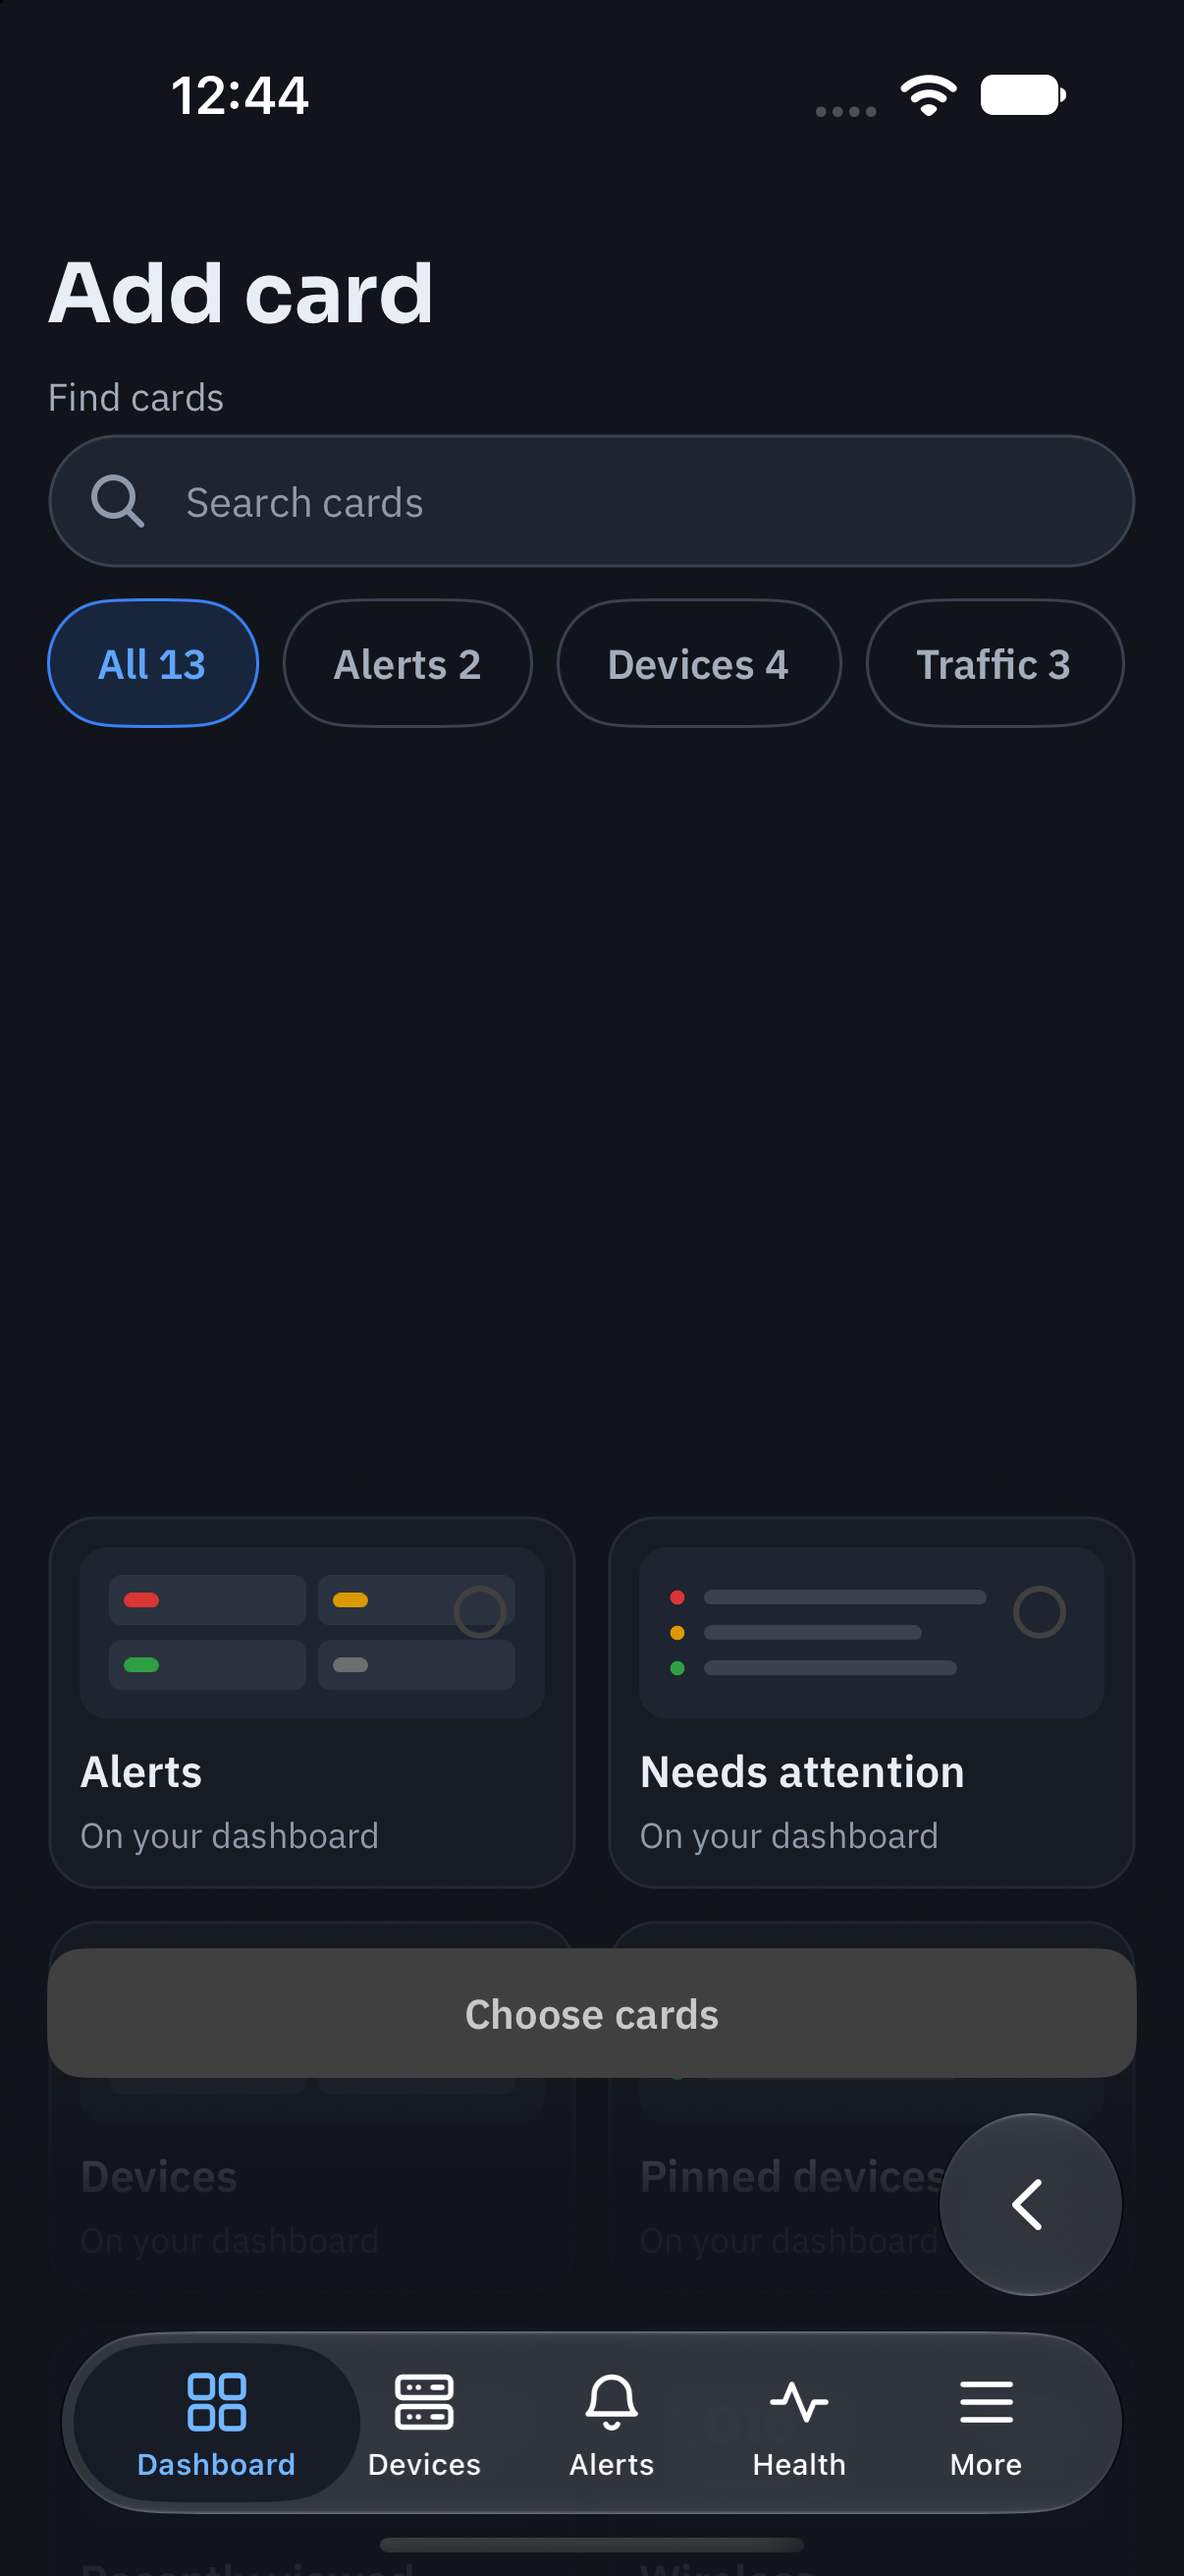
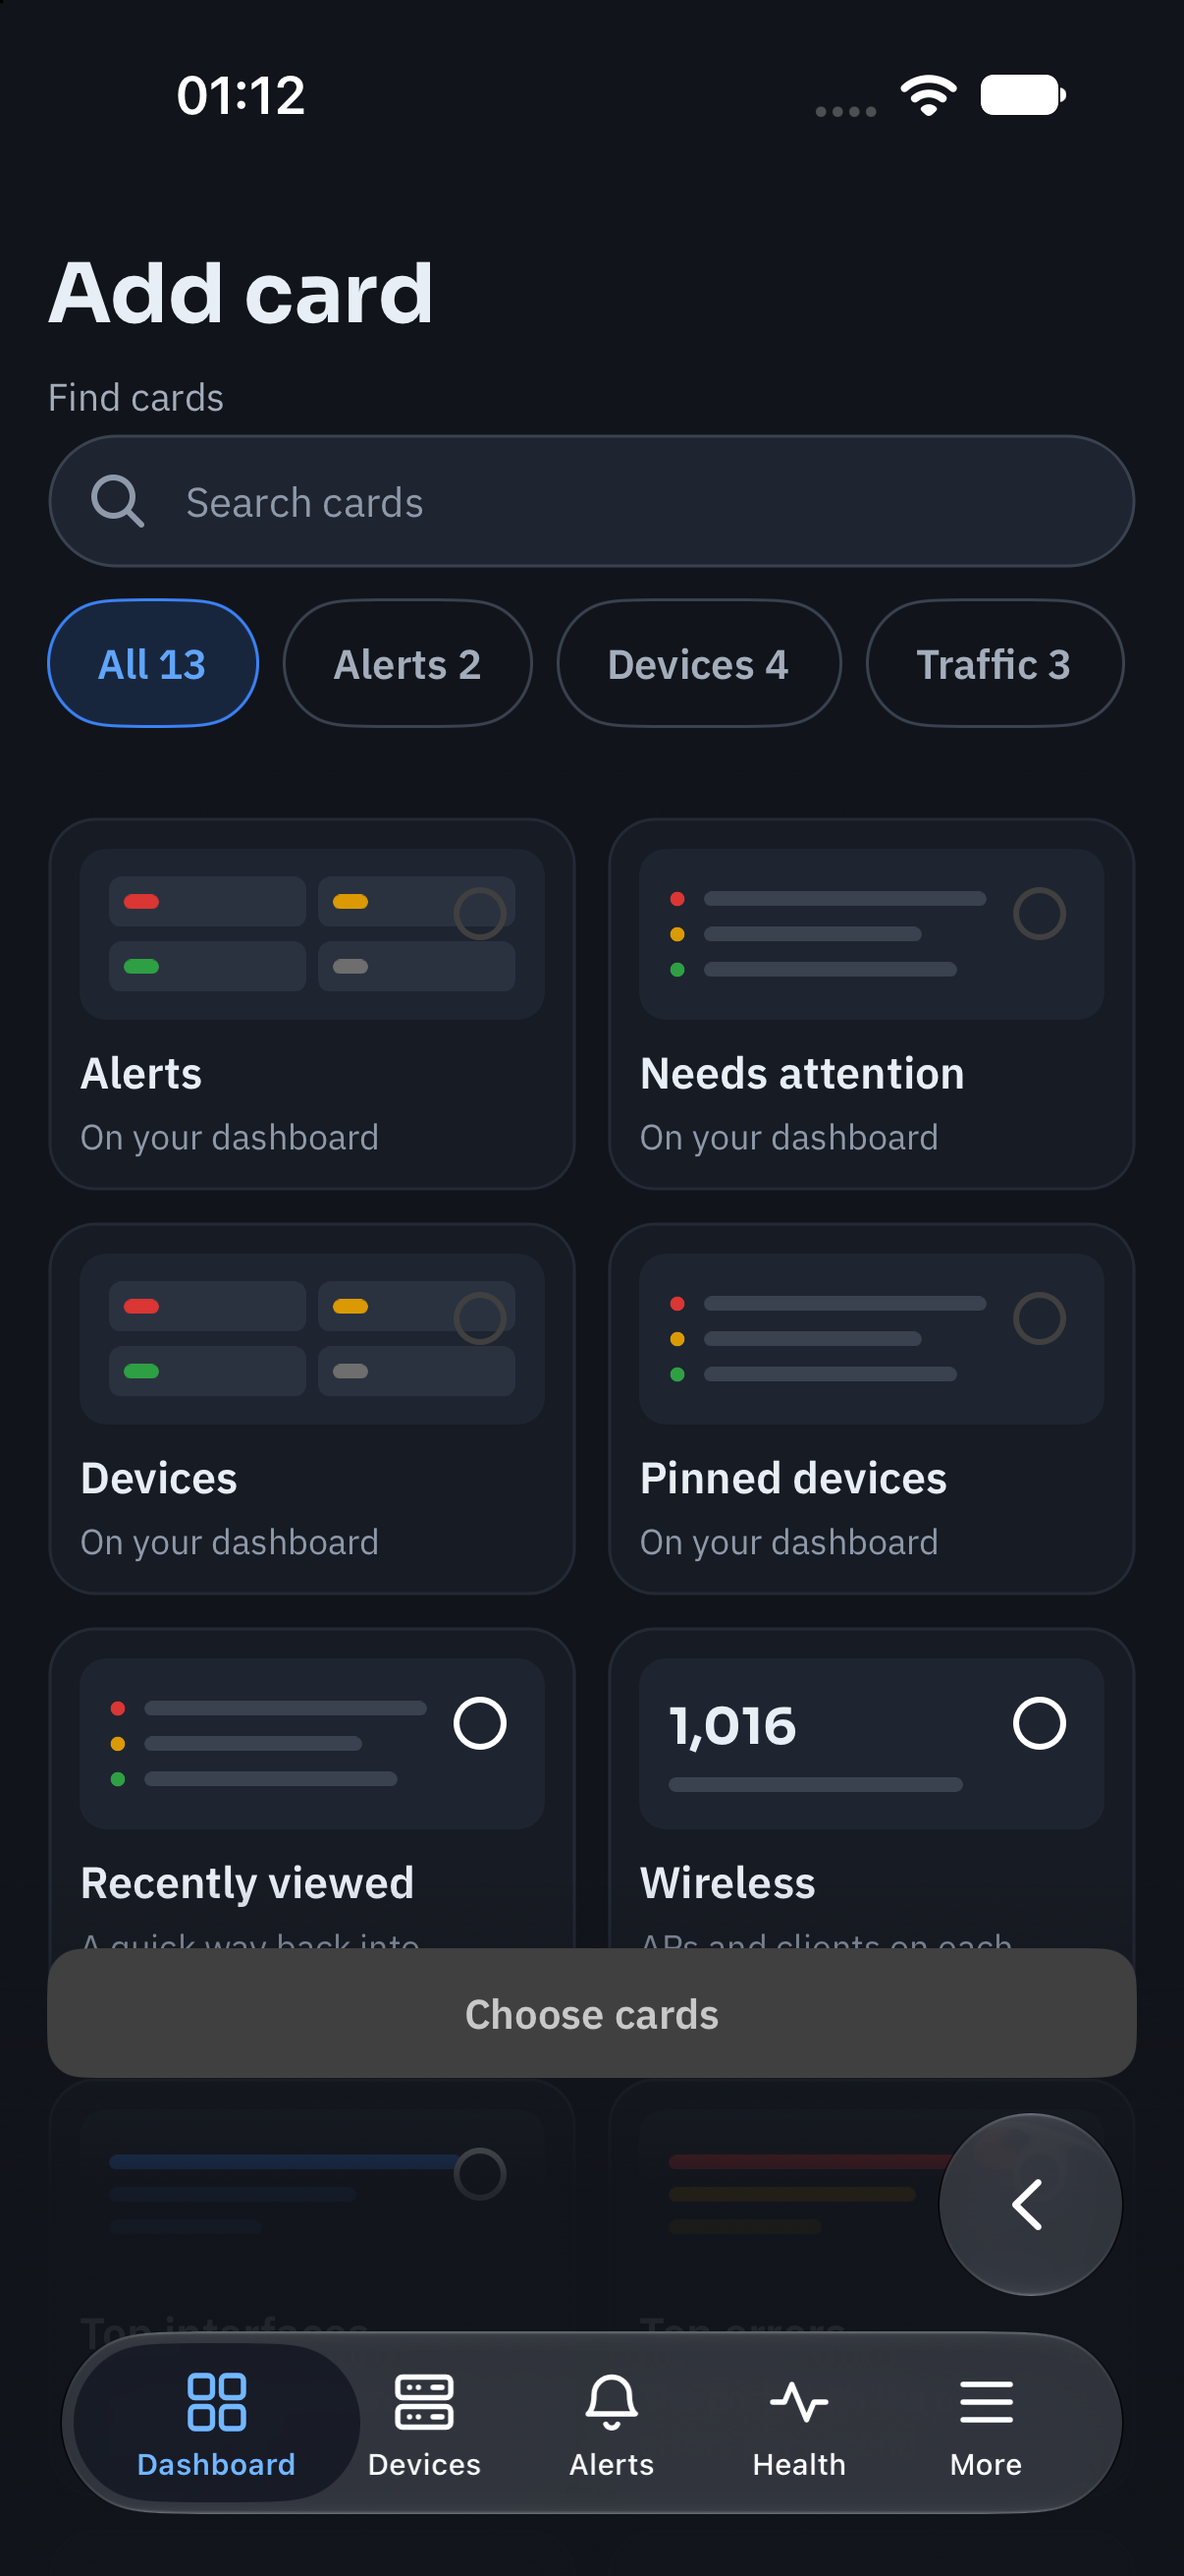
fix(dashboard): show the card catalogue directly below its filters (#730)
Closes #712

## Root cause

The ~268pt blank band below the category chips on `AddCardPage` came
from layout, not a restored scroll/inset position or capture state.
`AddCardPage` passes `CategoryScroll` (a horizontal `ScrollView` hosted
in an `Auto`-height grid row) to `SetupPageLayout` so iOS disables
automatic content insets on it. In full-height mode,
`SetupPageLayout.ApplyFullHeight` applied `placement.Footer` (bottom tab
bar + overlaid primary action + 24pt clearance) as bottom `Padding` to
every `ScrollView` in `_scrollers` regardless of orientation, inflating
`CategoryScroll`'s `HorizontalStackLayout` row by the full footer
height.

## What changes

- Restricts `SetupPageLayout.ApplyFullHeight` footer padding in
`src/DashyNMS.Mobile/Controls/SetupPageLayout.cs` to `ScrollView`s with
`Orientation` of `Vertical` or `Both`, so horizontal chip strips keep
`ContentInsetAdjustmentBehavior.Never` without receiving vertical footer
padding.
- Excludes the `CollectionView.Header` leading spacer and top fade
`BoxView` from the accessibility tree in
`src/DashyNMS.Mobile/Pages/AddCardPage.xaml`.
- Updates the Demo Mode capture
`docs/assets/screenshots/iphone-18-pro/06-dashboard-add-card-dark.png`
and release notes in `docs/releases/2.0.0.md`.

## Validation

- Verified in Demo Mode on **iPhone 18 Pro (iOS 27.2)**:
- Dark and Light themes show the first catalogue row directly below the
category chips and top fade, with selectable cards (**Recently viewed**,
[…]

diff --git a/src/DashyNMS.Mobile/Pages/AddCardPage.xaml b/src/DashyNMS.Mobile/Pages/AddCardPage.xaml
@@ -65,7 +65,7 @@
             <CollectionView x:Name="List" Grid.Row="2" ItemsSource="{Binding Cards}" SelectionMode="None" Margin="0,6,0,0" SizeChanged="OnCatalogueSizeChanged">
                 <CollectionView.Header>
                     <!-- Keep the first cards below the fade at rest. -->
-                    <BoxView HeightRequest="20" Color="Transparent" InputTransparent="True" />
+                    <BoxView HeightRequest="20" Color="Transparent" InputTransparent="True" AutomationProperties.IsInAccessibleTree="False" />
                 </CollectionView.Header>
                 <CollectionView.ItemsLayout>
                     <GridItemsLayout x:Name="CatalogueLayout" Orientation="Vertical" Span="1" HorizontalItemSpacing="10" VerticalItemSpacing="10" />
@@ -181,7 +181,8 @@
                     </DataTemplate>
                 </CollectionView.ItemTemplate>
             </CollectionView>
-            <BoxView Grid.Row="2" Margin="0,6,0,0" HeightRequest="20" VerticalOptions="Start" InputTransparent="True" ZIndex="1">
+            <BoxView Grid.Row="2" Margin="0,6,0,0" HeightRequest="20" VerticalOptions="Start" InputTransparent="True" ZIndex="1"
+                     AutomationProperties.IsInAccessibleTree="False">
                 <BoxView.Background>
                     <LinearGradientBrush StartPoint="0,0" EndPoint="0,1">
                         <GradientStop Offset="0" Color="{AppThemeBinding Light={StaticResource BackgroundLight}, Dark={StaticResource BackgroundDark}}" />

diff --git a/src/DashyNMS.Mobile/Controls/SetupPageLayout.cs b/src/DashyNMS.Mobile/Controls/SetupPageLayout.cs
@@ -224,7 +224,7 @@ internal sealed class SetupPageLayout
 
         foreach (var scroller in _scrollers)
         {
-            if (scroller is ScrollView { Content: Layout contentLayout })
+            if (scroller is ScrollView { Orientation: ScrollOrientation.Vertical or ScrollOrientation.Both, Content: Layout contentLayout })
             {
                 var current = contentLayout.Padding;
                 var next = new Thickness(current.Left, current.Top, current.Right, placement.Footer);

diff --git a/docs/releases/2.0.0.md b/docs/releases/2.0.0.md
@@ -34,6 +34,7 @@ DashyNMS Mobile 2.0 brings Intelligence, alert groups for LibreNMS 26.10, offlin
 
 ## Fixed
 
+- **Add card catalogue layout.** Opening **Add card** on iOS shows the card catalogue directly below the category filters without a blank gap, keeping available cards immediately visible and scrolling the final row clear of the bottom action button (#712).
 - **Logs empty states and time filters.** Narrow panes on iPhone, iPad and iPhone Duo show a labelled **Filters** control with the active time range and a rising filter sheet instead of clipping chips, empty Event and Alert logs explain whether history is empty or narrowed by filters (with **Clear filters**), and split view hides the detail placeholder when no entries can be selected (#718).
 - **Alert detail local notifications.** Local notification preferences move below incident evidence (`Why it fired`, `Rule`, `History`) into a compact **Notifications on this device** row whose chooser states the rule or device scope for each option and notes that changes save immediately on this device (#710).
 - **Status filters on Alerts and Devices.** All four status filters stay visible at rest in a single row, two rows, or a labelled **Status** selector at larger text sizes and short viewports, keeping active status separate from search (#708).
